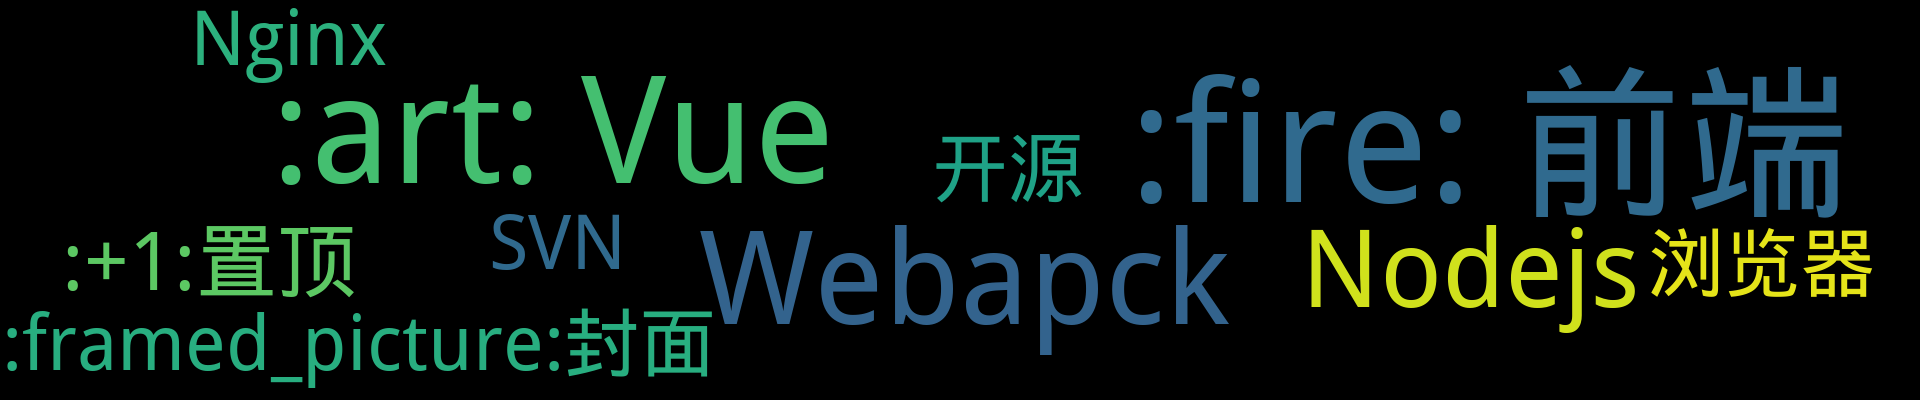
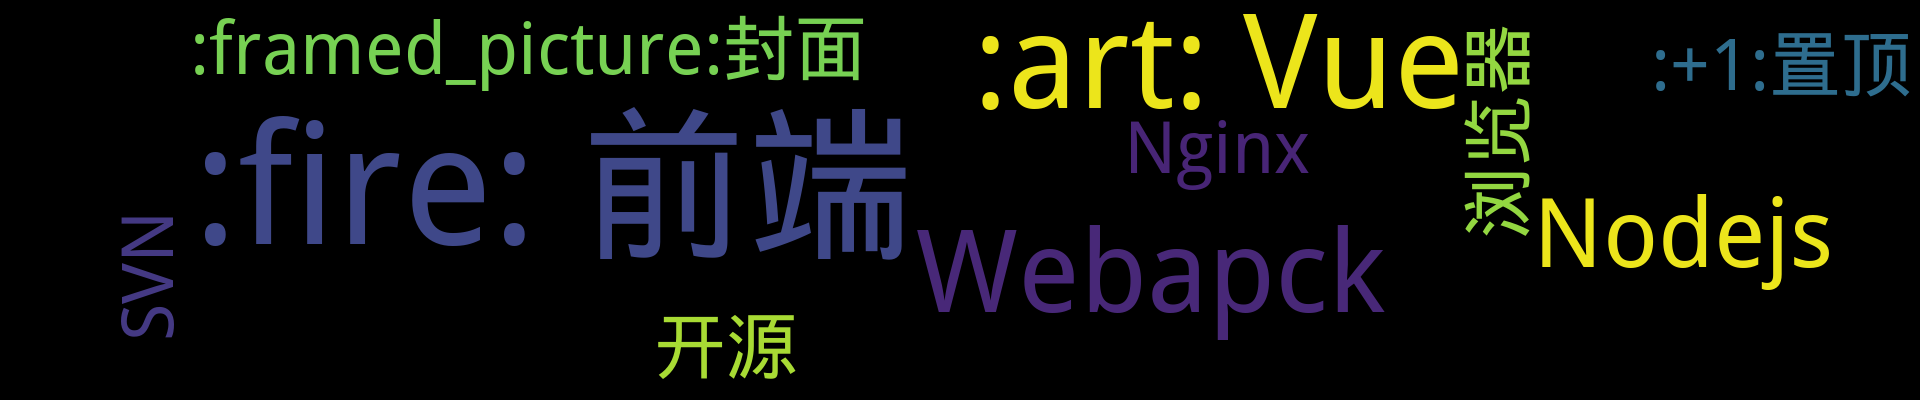
Update from Github Action

Changed region(s): [[0.0, 0.03, 1.0, 0.96]]

diff --git a/README.md b/README.md
@@ -3,7 +3,7 @@
 <p align='center'>
     <img src="https://badgen.net/badge/labels/19"/>
     <img src="https://badgen.net/github/issues/cklwblove/blog"/>
-    <img src="https://badgen.net/badge/last-commit/2020-04-20 06:10:45"/>
+    <img src="https://badgen.net/badge/last-commit/2020-04-21 02:40:00"/>
     <img src="https://badgen.net/github/forks/cklwblove/blog"/>
     <img src="https://badgen.net/github/stars/cklwblove/blog"/>
     <img src="https://badgen.net/github/watchers/cklwblove/blog"/>
@@ -126,13 +126,16 @@ mounted: function
 </details>
 
 <details>
-<summary>:fire: 前端	<sup>5:newspaper:</sup></summary>
+<summary>:fire: 前端	<sup>8:newspaper:</sup></summary>
 
 - [微信图片带有logo的二维码，有些机型长按不能识别](https://github.com/cklwblove/blog/issues/56)  <sup>0 :speech_balloon:</sup>  	 
 - [ElementUI如何展开指定Tree树节点](https://github.com/cklwblove/blog/issues/55)  <sup>0 :speech_balloon:</sup>  	 
 - [H5页面监听Android物理返回键](https://github.com/cklwblove/blog/issues/53)  <sup>0 :speech_balloon:</sup>  	 
 - [检测 <video>是否开始播放（加载到资源有了画面）的方法](https://github.com/cklwblove/blog/issues/51)  <sup>0 :speech_balloon:</sup>  	 
 - [打包构建后，js文件移除 'use strict'](https://github.com/cklwblove/blog/issues/50)  <sup>0 :speech_balloon:</sup>  	 
+- [H5在移动端遇到的常见问题](https://github.com/cklwblove/blog/issues/42)  <sup>0 :speech_balloon:</sup>  	 
+- [css3 flex 实现横向滚动条，子元素宽度自适应](https://github.com/cklwblove/blog/issues/40)  <sup>0 :speech_balloon:</sup>  	 
+- [深入研究-webkit-overflow-scrolling:touch及ios滚动](https://github.com/cklwblove/blog/issues/38)  <sup>0 :speech_balloon:</sup>  	 
 
 
 </details>
